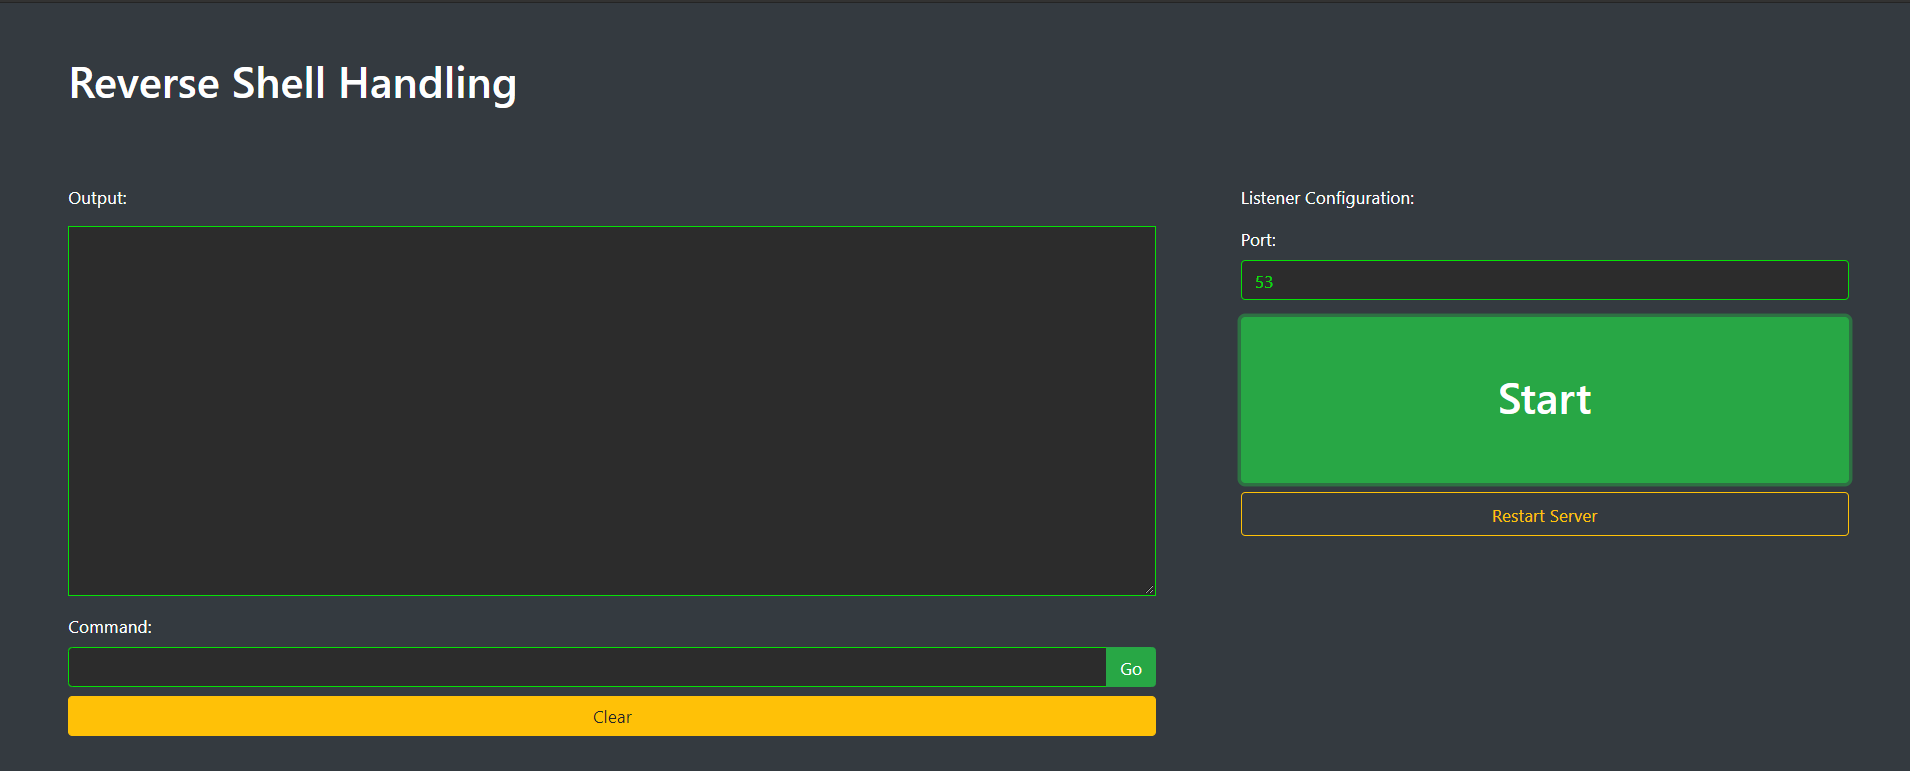
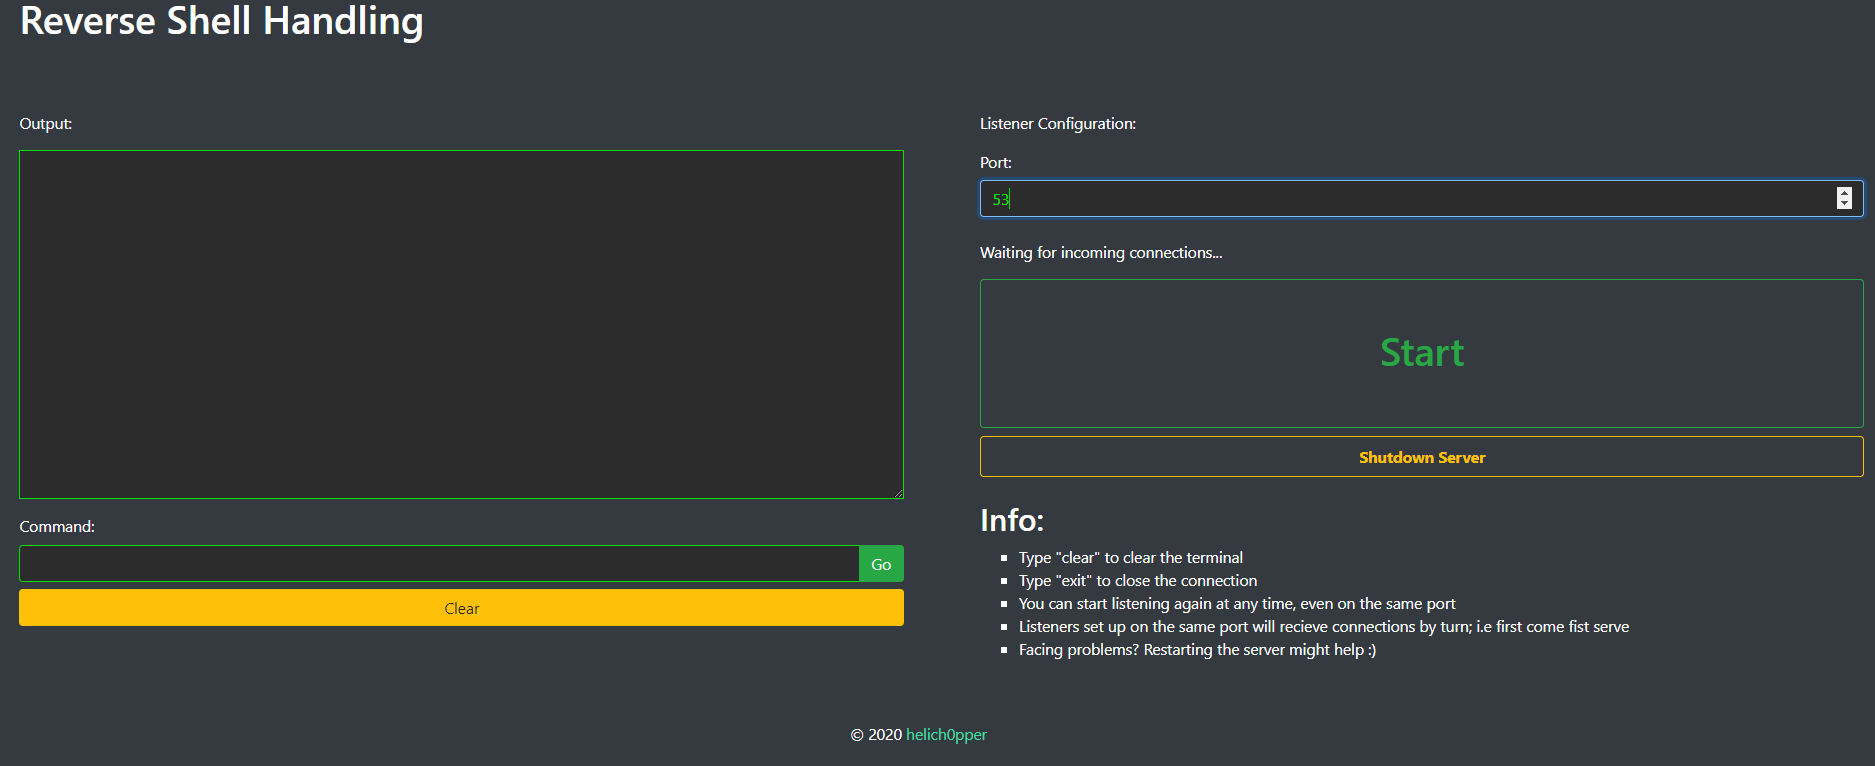
Reverse Shell Server Improved

diff --git a/bin/Server/templates/index.html b/bin/Server/templates/index.html
@@ -1,17 +1,17 @@
 <html>
 <head>
-    <title>Karkinos</title>
+    <title>Karkinos Reverse Shell</title>
+    <link rel="shortcut icon" href="{{ url_for('static', filename='favicon.ico') }}" type="image/x-icon">
     <meta name=”viewport” content=”width =device-width, initial-scale=1.0">
     <script src="https://ajax.googleapis.com/ajax/libs/jquery/3.5.1/jquery.min.js"></script>
     <link rel="stylesheet" href="https://maxcdn.bootstrapcdn.com/bootstrap/4.0.0/css/bootstrap.min.css" integrity="sha384-Gn5384xqQ1aoWXA+058RXPxPg6fy4IWvTNh0E263XmFcJlSAwiGgFAW/dAiS6JXm" crossorigin="anonymous">
-    <script src="https://ajax.googleapis.com/ajax/libs/jquery/3.2.1/jquery.min.js"></script>
     <link rel="stylesheet" href="{{ url_for('static', filename='css/main.css') }}">
 </head>
 <body class="bg-dark text-white">
     <!-- Header -->
     <header>
         <div class="row p-5">
-            <div class="col-md-5 col-sm-12 col-lg-5">
+            <div class="col-md">
                 <div class="container-fluid pb-3">
                     <h1 class="text-white">Reverse Shell Handling</h1>
                 </div>
@@ -22,7 +22,7 @@
     <main class="text-white">
         <div class="container-fluid">
             <div class="row">
-                <div class="col-md-7 col-lg-7 ml-5">
+                <div class="col-md ml-5">
                     <!-- Shell -->
                     <form method="POST" action="/">
                         <div class="form-group">
@@ -42,17 +42,26 @@
                     </form>
                 </div>
                 <!-- Connect -->
-                <div class="col-md-4 col-lg-4 col-sm-10 ml-5">
+                <div class="col-md ml-5">
                     <form method="POST" action="/config">
                         <p class="text-white">Listener Configuration:</p>
                         <div class="form-group">
                             <label for="port" class="text-white">Port:</label>
                             <input type="number" id="port" name="port" class="terminal form-control" placeholder="Port to listen on" required>
                         </div>
+                        <p id="startMsg" class="mt-4">{{ startMsg }}</p>
                         <div class="form-group">
                             <button type="submit" class="btn btn-outline-success btn-block py-5" id="start"><h1>Start</h1></button>
                             <button type="button"  class="btn btn-outline-warning btn-block py-2" id="shutdown"><b>Shutdown Server</b></button>
-                            <p id="shutdownMsg" class="mt-4"></p>
+                            <p id="shutdownMsg" class="text-danger mt-4"></p>
+                            <h2 class="mt-4">Info:</h2>
+                            <ul class="tips">
+                                <li>Type "clear" to clear the terminal</li>
+                                <li>Type "exit" to close the connection</li>
+                                <li>You can start listening again at any time, even on the same port</li>
+                                <li>Listeners set up on the same port will recieve connections by turn; i.e first come fist serve</li>
+                                <li>Facing problems? Restarting the server might help :)</li>
+                            </ul>
                         </div>
                     </form>
                 </div>
@@ -61,9 +70,10 @@
     </main>
 
     <footer>
-        <div class="footer-copyright text-white text-center py-3">
-            &copy; 2020 Copyright:
-            <a href="https://github.com/helich0pper">helich0pper</a>
+        <div class="footer-copyright text-white text-center mt-5">
+            <div class="row justify-content-center mb-4">
+                <p>&copy; 2020<a href="https://github.com/helich0pper" class="text-green" target="_blank"> helich0pper</a></p>    
+            </div>
         </div>
     </footer>
     <script>

diff --git a/bin/Server/static/js/reverse.js b/bin/Server/static/js/reverse.js
@@ -3,11 +3,10 @@ $(document).ready(function(){
         $('#shutdownMsg').html("Server shutdown! Close tab.");
         shutdown();
     });
-
-
+    $("#start").click(function(){
+        $('#startMsg').html("Waiting for incoming connections...");
+    });
 });
-
-
 
 function shutdown(){
     jQuery.ajax({

diff --git a/bin/Server/static/css/main.css b/bin/Server/static/css/main.css
@@ -49,3 +49,11 @@ html {
 .pb-7{
   padding-bottom: 10rem !important;
 }
+
+.text-green{
+    color: #42dca3;
+}
+
+.tips{
+    list-style-type: square;
+}

diff --git a/bin/Server/app.py b/bin/Server/app.py
@@ -15,9 +15,12 @@ def shutdown_server():
         raise RuntimeError('Server not running')
     func()
 
-def startListen():
-    global client_address, client_socket, s
-    s.bind((SERVER_HOST, SERVER_PORT))
+def startListen(PORT):
+    global SERVER_HOST
+
+    s = socket.socket(socket.AF_INET, socket.SOCK_STREAM)
+    s.setsockopt(socket.SOL_SOCKET, socket.SO_REUSEADDR, 1)
+    s.bind((SERVER_HOST, PORT))
     s.listen(5)
     client_socket, client_address = s.accept()
 
@@ -25,45 +28,52 @@ def startListen():
 
 def getData(client_socket):
     #client_socket.setblocking(0)
-    client_socket.settimeout(0.5)
+    client_socket.settimeout(1)
     data = bytearray()
     try:
         while 1:
             packet = client_socket.recv(BUFFER_SIZE)
-            #print(packet)
             data.extend(packet)
     except socket.timeout as e:
-        print(data)
         return data.decode()
 
     return data.decode()
 
-def shell(c):
-    global thread, client_socket, s
-    command = c + "\n"
-    client_socket.send(command.encode())
+def shell(command, client_socket):
+    global out
 
-    return True
+    ret = True
+
+    if command == "clear" or command == "\"clear\"":
+        out = ""
+    elif command == "exit" or command == "\"exit\"":
+        client_socket.close()
+        ret = False
+        out += "\nClosed."
+    else:
+        command += "\n"
+        client_socket.send(command.encode())
+
+    return ret
 
 @app.route('/config', methods = ['POST'])
 def config():
-    global SERVER_PORT, connected
-    SERVER_PORT = int(request.form['port'])
-    print(SERVER_PORT)
-    if connected == False:
-        tmpsock = startListen()
-        out = getData(tmpsock)
-        connected = True
-    return render_template('index.html', out=out)
+    global client_socket, out
+
+    PORT = int(request.form['port'])
+    client_socket = startListen(PORT)
+    out = getData(client_socket)
+    return render_template('index.html', out=out, startMsg="")
 
 @app.route('/', methods = ['POST', 'GET'])
 def index():
-    global out, client_socket
-    if request.method == "POST":
-        c = request.form['command']
-        shell(c)
-        out += getData(client_socket)
-        out += "\n\n"
+    global client_socket, out
+
+    if request.method == "POST" and client_socket != "":
+        command = request.form['command']
+        if shell(command, client_socket) == True:
+            out += getData(client_socket)
+            out += "\n\n"
     return render_template('index.html', out=out)
 
 @app.route('/shutdown', methods=['POST'])
@@ -73,17 +83,10 @@ def shutdown():
 
 if __name__ == '__main__':
     SERVER_HOST = "0.0.0.0"
-    SERVER_PORT = 5011
+    PORT = 5555  
     BUFFER_SIZE = 1024
     client_socket = ""
-    client_address = ""
     out = ""
-    connected = False
-    s = socket.socket(socket.AF_INET, socket.SOCK_STREAM)
-
-    try:
-        PORT = int(os.environ.get('SERVER_PORT', '5555'))
-    except ValueError:
-        PORT = 5555
+        
     app.run(SERVER_HOST, PORT)
     

diff --git a/README.md b/README.md
@@ -85,8 +85,8 @@ Karkinos offers the option to **simultaneously** crack hashes using a built-in w
 
 # Future Work
 Pull requests and bug reports are always appreciated. <br>
-Below are known bugs and issues:
-* Reverse shell handling server code is currently being reworked but it works fine
+Below are features to be added/fixed:
+* Creating a Wiki page to help customize Karkinos or troubleshoot common issues
 
 # Find me on
 <a href="https://twitter.com/helich0pper">Twitter</a>
